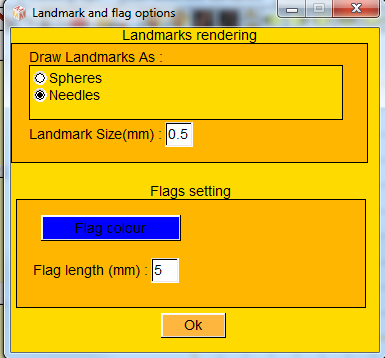
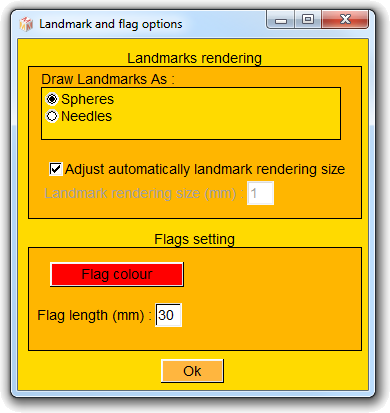
updates_v1.3

diff --git a/chapter_07_viewing_options.tex b/chapter_07_viewing_options.tex
@@ -282,26 +282,25 @@ Grid rendering can be edited to reach the desired size/square
 
 
 
-\noindent
-\begin{minipage}{0.55\textwidth}
-
-
 \section{Landmark and flag rendering options}
-The landmark and flag options window contains the following sections:
+The landmark and flag options window (see Fig. \ref{landmarks_flags_options}) contains the following sections:
 
 \subsection{Landmarks rendering}
-``Normal" and ``Target" landmarks can be drawn as spheres or as needles. Landmark display size can be also edited in this section.
-\end{minipage}  
- \begin{minipage}{0.45\textwidth}\centering
-\includegraphics[scale=0.5]{images/Viewing_options/Landmark_options.png}
- \captionof{figure}{Landmark and flag options window}
+``Normal" and ``Target" landmarks can be drawn as spheres or as needles. Landmark display size can be chosen to be adjusted automatically (default behaviour) or edited manually (when you feel that the automatic adjustment does not meet your needs) also edited manually in this section.
 
- \end{minipage} 
-\noindent
+
+
 \subsection{Flags settings}
 Flag length and colour settings can be defined in thissubsection. Once placed on a surface and selected, the colour, the length and the label of the flag can be changed by pressing
-\includegraphics[scale=0.7]{images/pixmap/Flag02.png}
+\includegraphics[scale=0.7]{images/pixmap/Flag02.png}.
 
+
+\begin{figure}
+  \centering  
+ \includegraphics[scale=0.5]{images/Viewing_options/Landmark_options.png}
+ \captionof{figure}{Landmark and flag options window.}
+\label{landmarks_flags_options}
+\end{figure}
 
 \section{Display landmark numbers}
 ``Normal" and ``target" landmark numbers are displayed by default. For illustration purposes, you may sometimes need to hide landmark numbers.
@@ -327,5 +326,6 @@ window.
 
 
 
-
+\section{VBO activate (GPU acceleration)}
+By default, ISE-MeshTools does not use the graphic card to display 3D objects, which slows down dramatically the rendering speed of heavy 3D meshes and that of tagged meshes. However, we have chosen not to activate the ``VBO" rendering option by default, as we have experienced that it causes ISE-MeshTools to crash on old computers or on some others which have not up to date graphic card drivers. By activating the graphic card acceleration option (VBO activate), you will probably find out that ISE-MeshTools is much more fluid to work with.\\ This feature was implemented by Cécile Peladan.
 

diff --git a/chapter_10_scalars.tex b/chapter_10_scalars.tex
@@ -9,7 +9,7 @@ When active, the rainbow colour scale (see Fig. \ref{rainbow_colour_scale}) show
 bottom-right part of the 3D rendering window.
 \end{minipage}    
 \begin{minipage}{0.5\textwidth}\centering
-  \includegraphics[scale=0.5]{images/Scalars_renreding/Colour scale.png}
+  \includegraphics[scale=0.5]{images/Scalars_renreding/Colour_scale.png}
  \captionof{figure}{Rainbow colour scale, showing a
 ``min" range display value of -1, a
 ``max" range display value of 1, and a
@@ -21,8 +21,16 @@ middle range display value of 0.
 
 
 \section{Show scalar rendering options window.}
-\noindent
-\begin{minipage}{0.5\textwidth}
+
+
+\begin{figure}
+  \centering
+  \includegraphics[scale=0.5]{images/Scalars_renreding/Colour_scale_rendering_window.png}
+\caption{Scalar rendering options window}	
+\label{Scalar_rendering_options_window}
+ \end{figure}
+
+
 Displayed scalars and scalar associated
 colour scales can aslo be onpened by
 clicking on ``\includegraphics[scale=0.7]{images/pixmap/edit_color_scale.png}" (see Fig. \ref{Scalar_rendering_options_window}).\\
@@ -33,14 +41,9 @@ the available scalars (see below for further
 information).\\
 \textit{Chose colour scale}: please chose among
 the available colour scales (see below for
-further information).
-\end{minipage}    
-\begin{minipage}{0.5\textwidth}\centering
-  \includegraphics[scale=0.5]{images/Scalars_renreding/Colour_scale_rendering_window.png}
-\captionof{figure}{Scalar rendering options window}	
-\label{Scalar_rendering_options_window}
- \end{minipage} 
-\noindent
+further information).\\
+
+
 \textit{Init scalar}: set current active scalar values to ``0" for all selected objects.
 Remove scalar : removes active scalar for all selected objects. This option is useful if you plan to save surfaces in the .vtk format and do not want ISE-MeshTools to save associated scalar values (this will save some disk space).\\
 \textit{min}: changes the minimal value of the active colour scale.\\
@@ -78,7 +81,7 @@ is used.
 
 
 \section{Scalars : compute vertice curvature.}
-\section{Scalars: distance from camera (Depth).}
+
 \noindent
 \begin{minipage}{0.5\textwidth}
 vtkCurvatures filter is implied in this option.\\

diff --git a/chapter_08_edit_selected_surfaces.tex b/chapter_08_edit_selected_surfaces.tex
@@ -273,6 +273,8 @@ information regarding hole filling.
 \end{figure}
 
 
+\subsection{Registration ICP}
+This option was implemented by Cécile Peladan, and deserves a chapter of its own and a tutorial, which will be written in a near future. 
 
 \section{Rendering modifications.}
 \subsection{Set alpha value}
